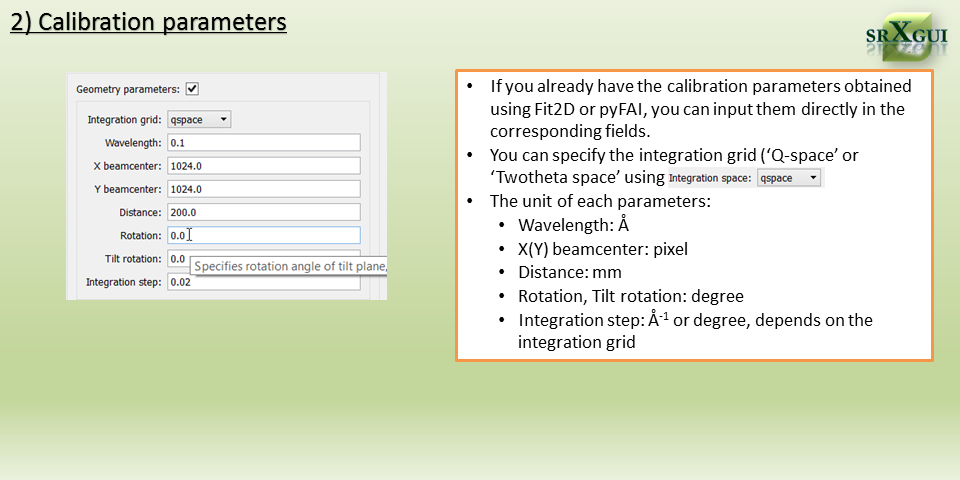
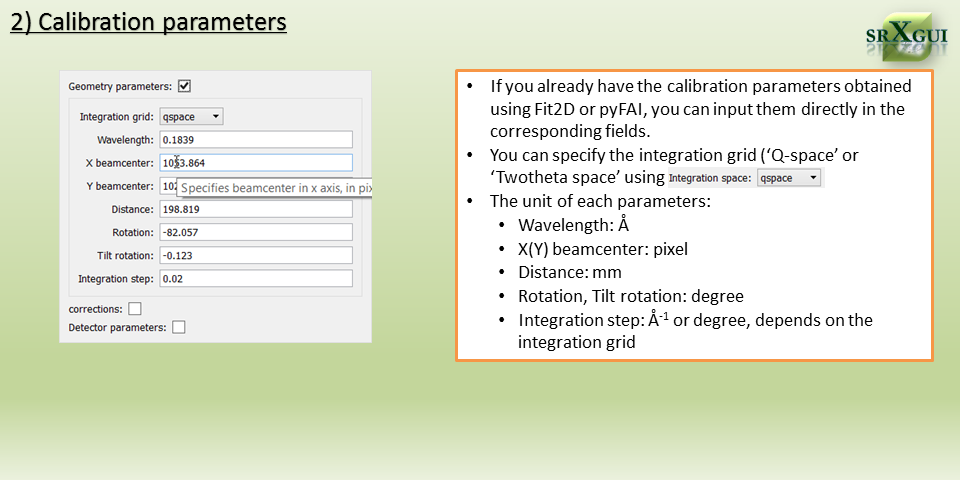
update the manual
Former-commit-id: ffbf29416bd477e4f331f3b455254cab253a9d2c

Changed region(s): [[0.0625, 0.125, 0.4062, 0.7188]]

diff --git a/dpx/srxplanargui/help.py b/dpx/srxplanargui/help.py
@@ -62,7 +62,7 @@ class SrXguiHelp(HasTraits):
     # quick start
     #######################
 
-    imgs = [ImageResource('%02d.png' % i) for i in range(1, 13)]
+    imgs = [ImageResource('%02d.png' % i) for i in range(1, 14)]
 
     qslen = Int(1)
 
